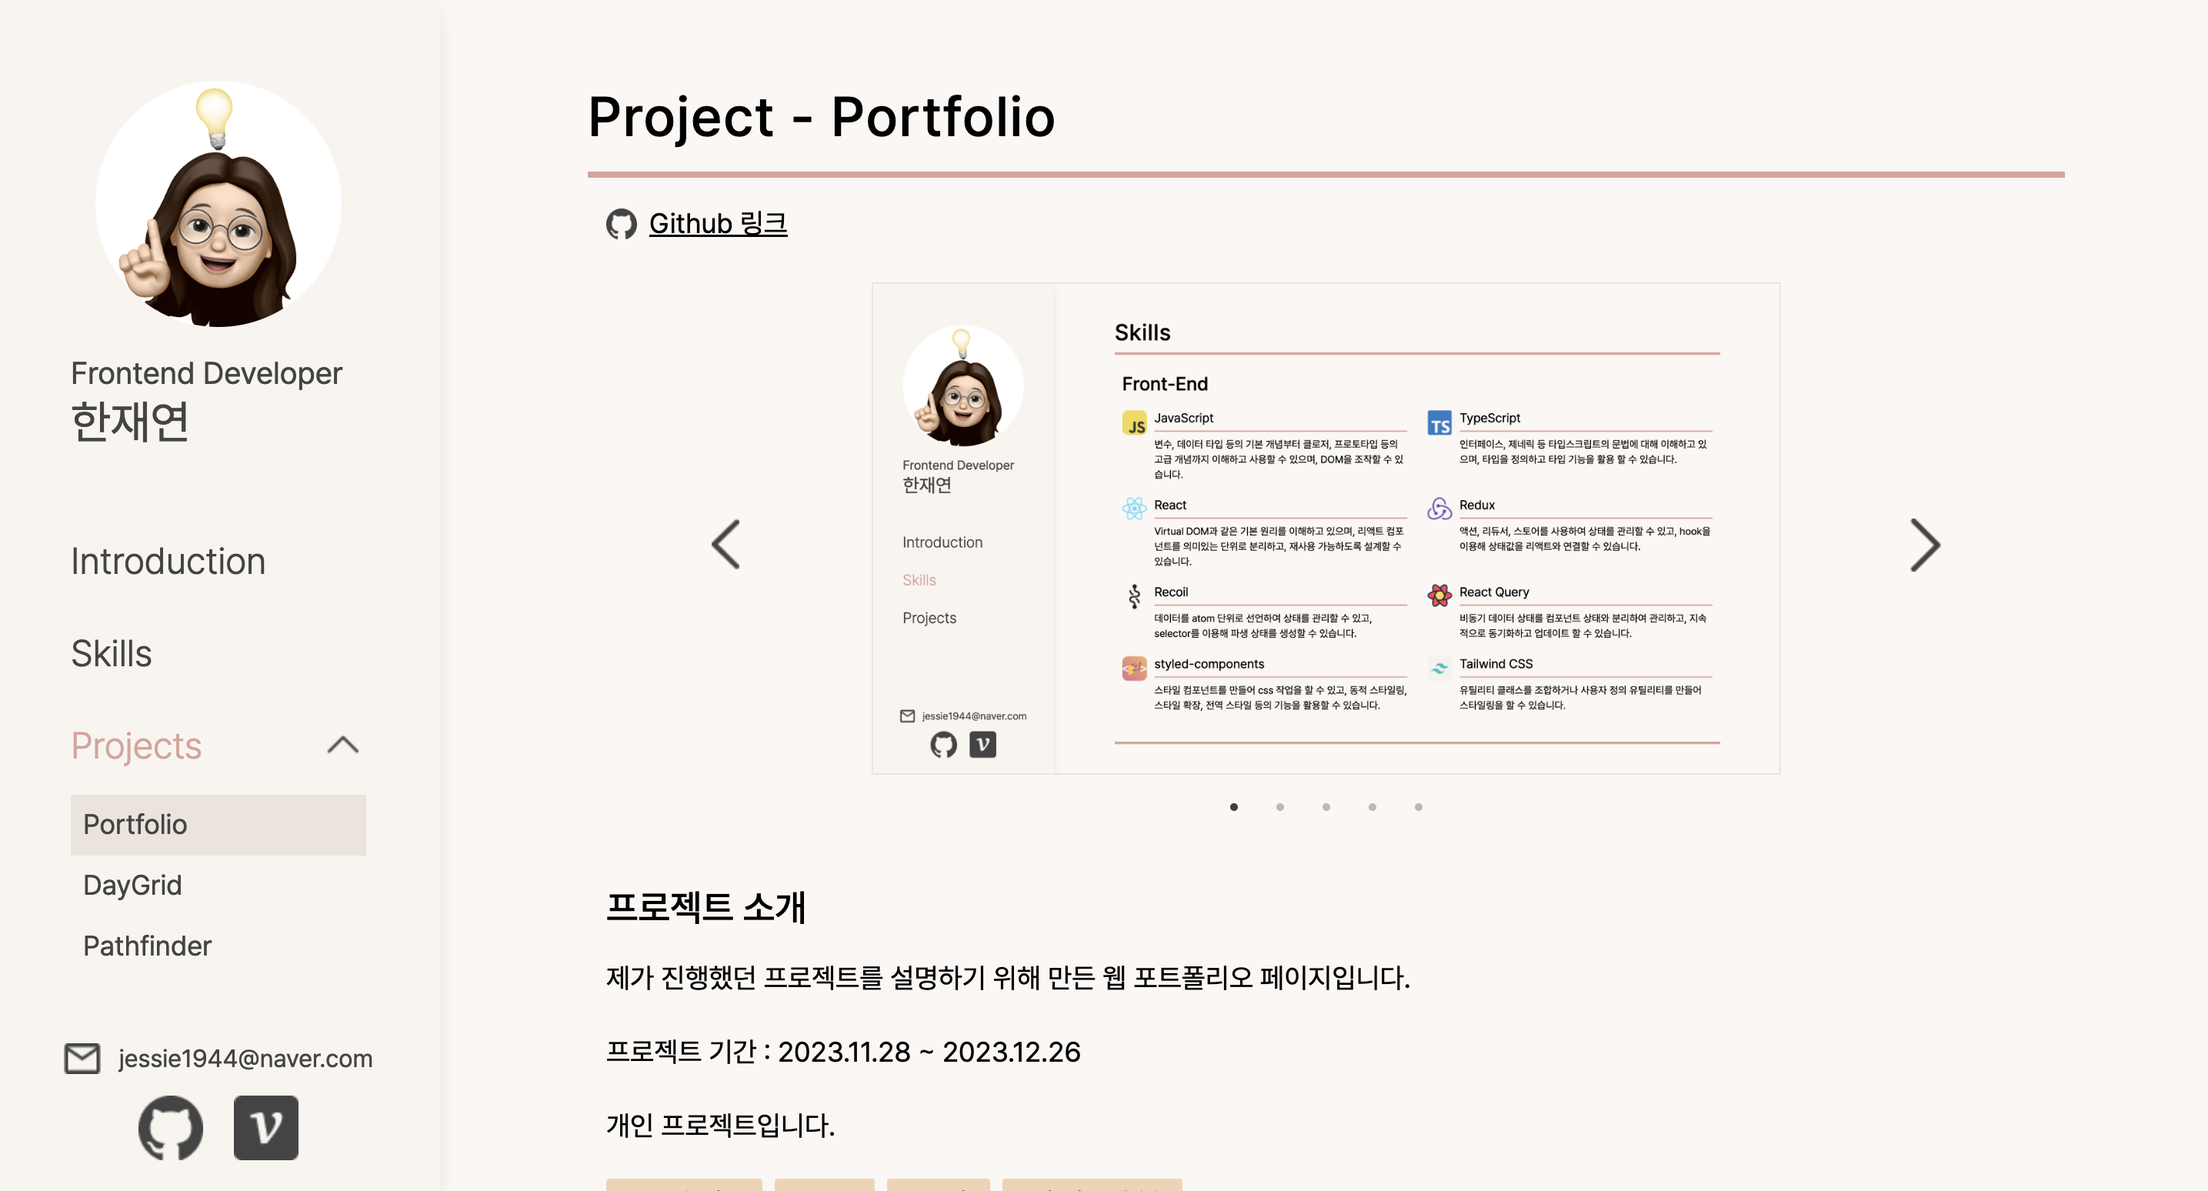
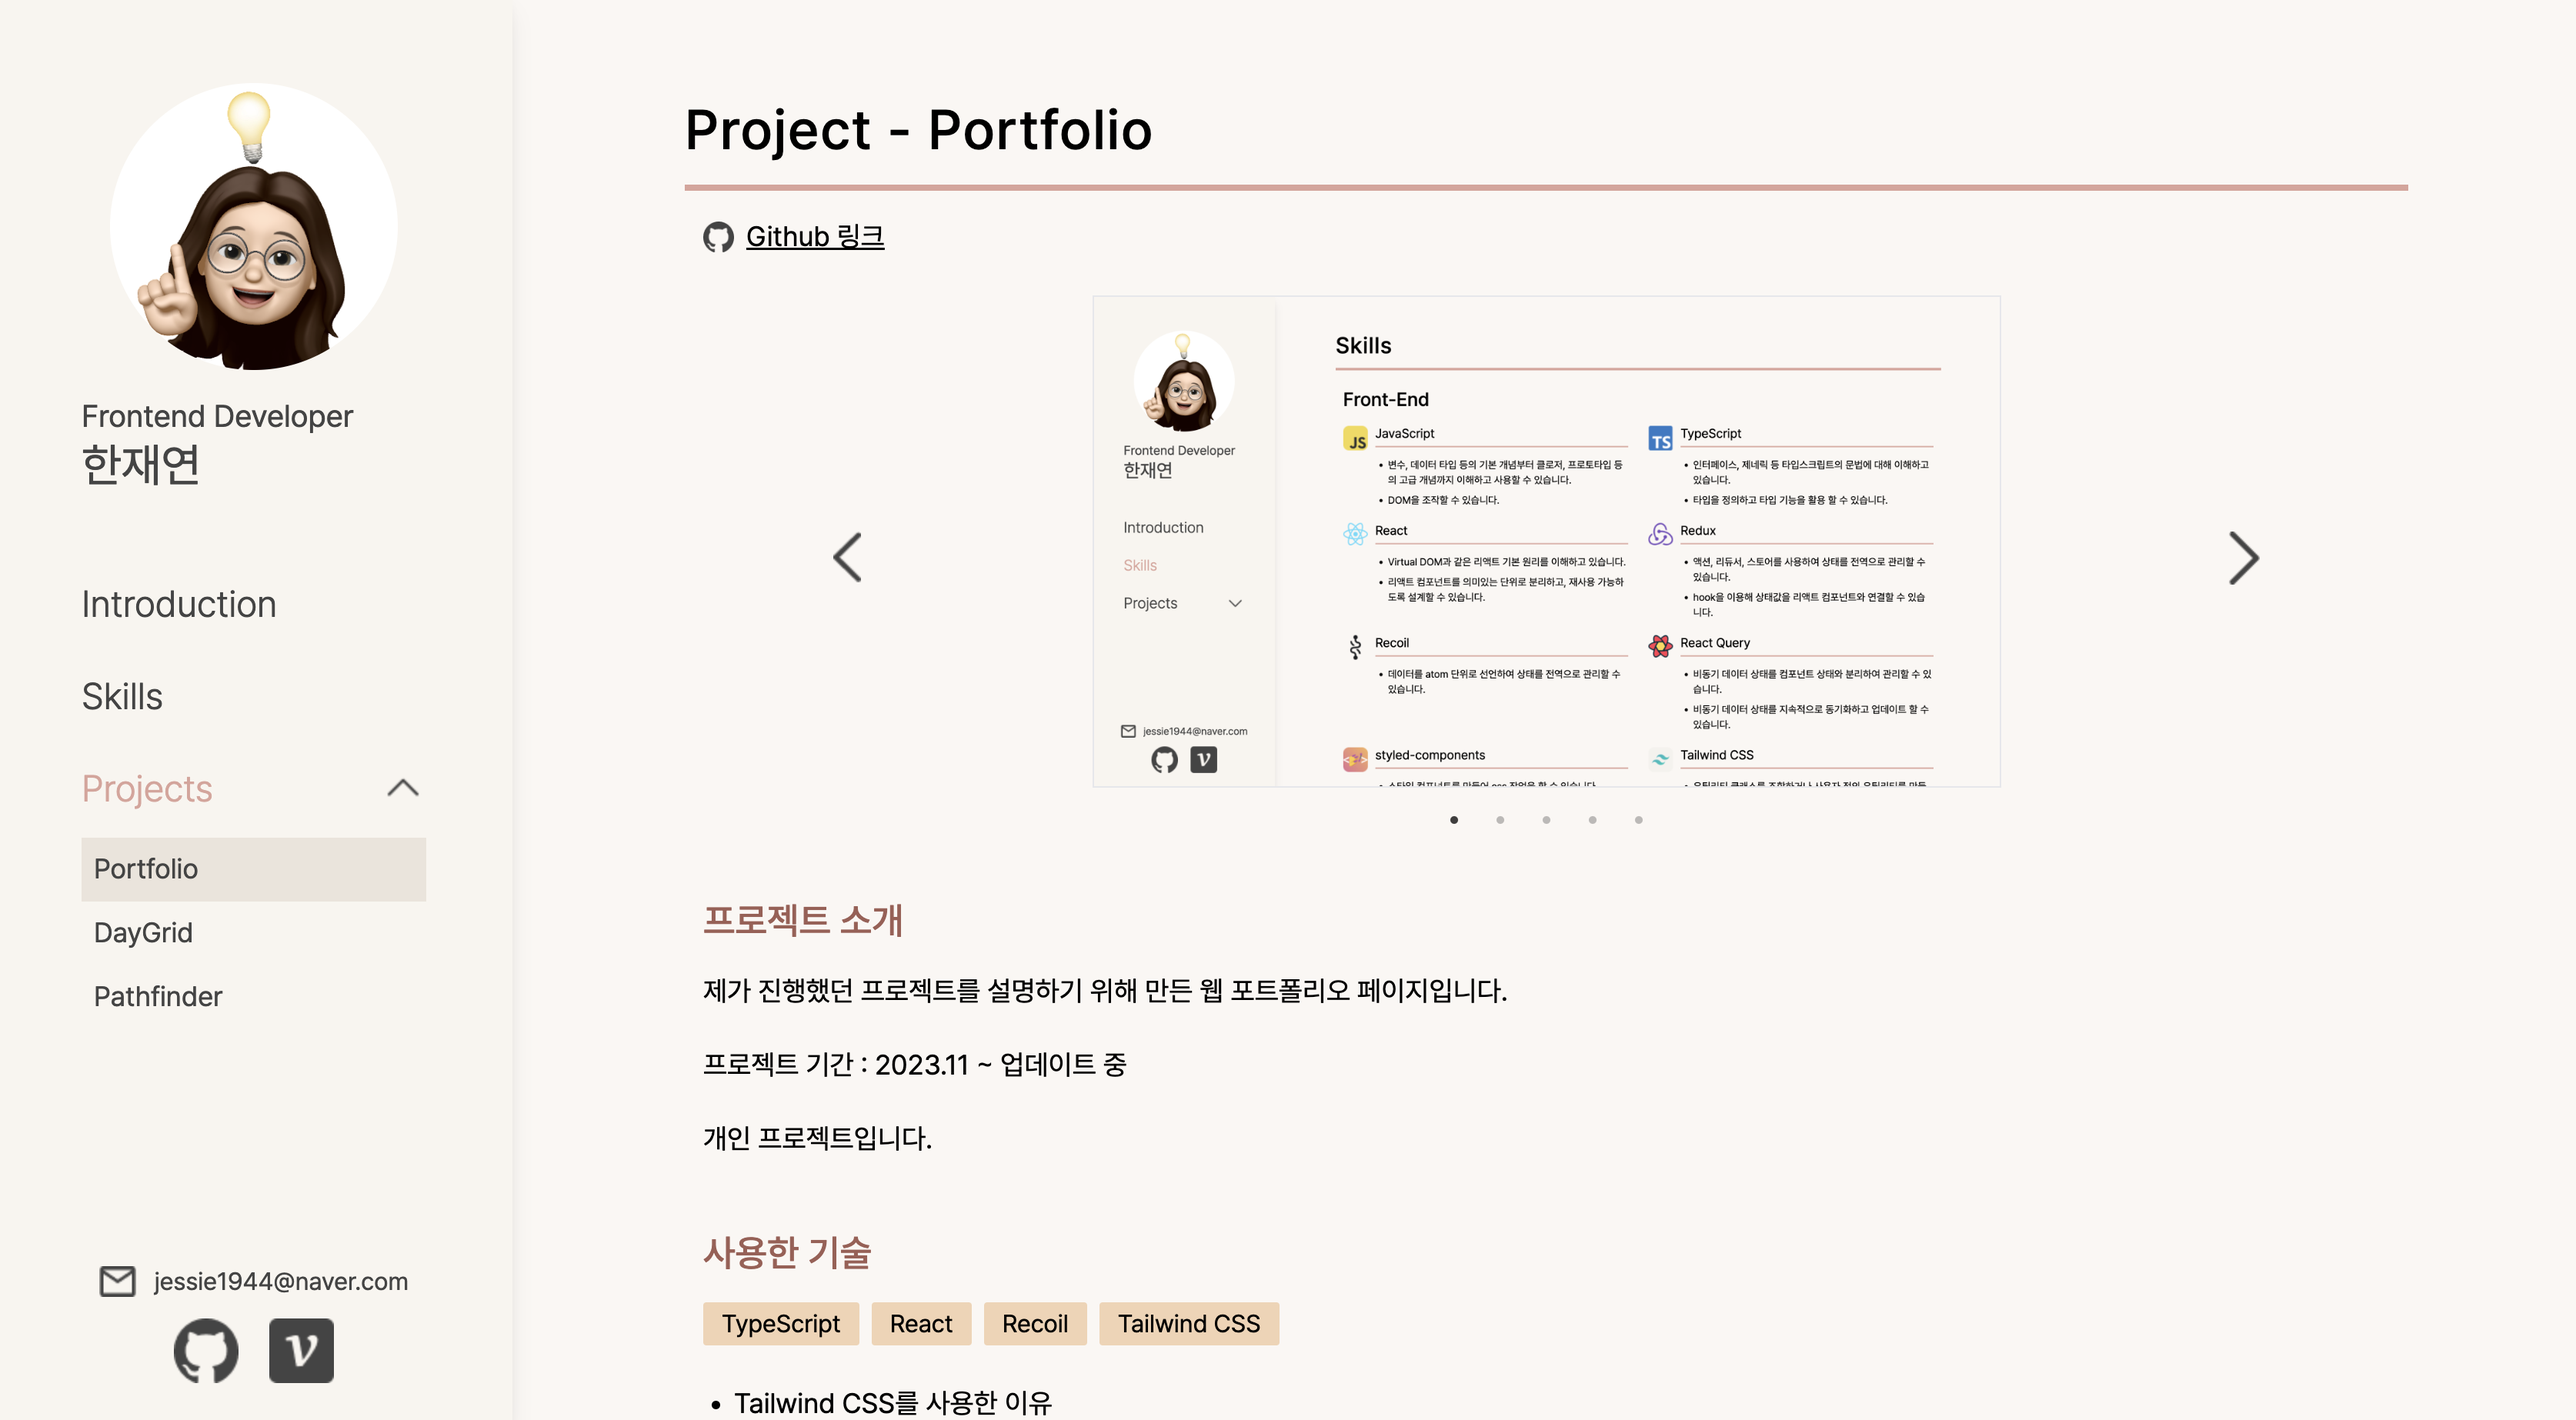
🎸 Chore: 프로젝트 페이지 내용 수정

diff --git a/src/components/Daygrid.tsx b/src/components/Daygrid.tsx
@@ -2,7 +2,7 @@ import React from "react";
 import github from "../assets/images/github.png";
 import link from "../assets/images/link.png";
 import Slider from "./Slider";
-import { daygridFe, daygridBe } from "../assets/images/skills/projectSkills";
+import { daygridFe, daygridBe } from "../assets/projects/projectSkills";
 
 function Daygrid(): JSX.Element {
   return (
@@ -48,13 +48,43 @@ function Daygrid(): JSX.Element {
             </div>
           ))}
         </div>
-        <div className="w-42 flex items-center gap-2 mb-8">
+        <div className="w-42 flex items-center gap-2 mb-6">
           {daygridBe.map((v, i) => (
             <div className="skill_be" key={i}>
               {v}
             </div>
           ))}
         </div>
+        <ul className="flex flex-col ml-3 mb-7 text-lg gap-3">
+          <li className="list_disc_style">
+            Redux Toolkit을 사용한 이유
+            <ul className="flex flex-col gap-2 mt-2">
+              <li className="list_circle_style pl-7">
+                중앙에서 전역 상태를 관리하고, 컴포넌트가 스토어에 직접 접근하여 데이터를 사용할 수
+                있음. 단일 스토어에서 상태를 관리하기 때문에 상태를 어디에서 관리해야 할지 고민하지
+                않아도 됨.
+              </li>
+              <li className="list_circle_style pl-7">
+                Redux Toolkit을 통해 보일러플레이트 코드양을 줄여 상태관리 작업을 단순화하고 실수를
+                방지
+              </li>
+            </ul>
+          </li>
+          <li className="list_disc_style">
+            React Query를 사용한 이유
+            <ul className="flex flex-col gap-2 mt-2">
+              <li className="list_circle_style pl-7">
+                캐싱 기능을 통해 비동기 데이터의 불필요한 반복 호출을 방지하거나, 데이터를
+                지속적으로 동기화하고 업데이트를 해주는 등 서버 데이터를 손쉽게 관리할 수 있음
+              </li>
+              <li className="list_circle_style pl-7">
+                Redux Toolkit에서도 RTK Query 통해 비동기 데이터를 불러오고 캐싱하는 기능을 제공.
+                이후 다른 프로젝트에서 Redux Toolkit을 사용한다면 편리성을 위해 RTK Query를
+                고려해보아도 되겠다고 생각하였음.
+              </li>
+            </ul>
+          </li>
+        </ul>
       </div>
       <div>
         <h2 className="title">내가 기여한 부분</h2>
@@ -67,12 +97,12 @@ function Daygrid(): JSX.Element {
                 Bebel-loader 와 ts-loader를 esbuild-loader로 마이그레이션하여 빌드 시간 단축
                 <ul className="flex flex-col gap-2 mt-2">
                   <li className="list_circle_style pl-7">
+                    npm run build 속도: 17.84초 -&gt; 8.56초, npm start 속도: 10.62초 -&gt; 6.62초
+                  </li>
+                  <li className="list_circle_style pl-7">
                     esbuild는 Go언어를 기반으로 작성되어 JavaScrip에 비해 빠른 빌드 속도를 보여줌.
                     하지만 타입 체킹을 진행하지 않기 때문에 fork-ts-checker-webpack-plugin을
                     사용하여 타입 체킹을 별도의 프로세스로 분리하여 진행.
-                  </li>
-                  <li className="list_circle_style pl-7">
-                    npm run build 속도: 17.84초 -&gt; 8.56초, npm start 속도: 10.62초 -&gt; 6.62초
                   </li>
                 </ul>
               </li>

diff --git a/src/components/Pathfinder.tsx b/src/components/Pathfinder.tsx
@@ -2,7 +2,7 @@ import React from "react";
 import github from "../assets/images/github.png";
 import link from "../assets/images/link.png";
 import Slider from "./Slider";
-import { pathfinderSkills } from "../assets/images/skills/projectSkills";
+import { pathfinderSkills } from "../assets/projects/projectSkills";
 
 function Pathfinder(): JSX.Element {
   return (
@@ -38,13 +38,42 @@ function Pathfinder(): JSX.Element {
         </ul>
       </div>
       <h2 className="title">사용한 기술</h2>
-      <div className="w-42 flex items-center gap-2 mb-8">
+      <div className="w-42 flex items-center gap-2 mb-6">
         {pathfinderSkills.map((v, i) => (
           <div className="skill_fe" key={i}>
             {v}
           </div>
         ))}
       </div>
+      <ul className="flex flex-col ml-3 mb-7 text-lg gap-3">
+        <li className="list_disc_style">
+          Recoil을 사용한 이유
+          <ul className="flex flex-col gap-2 mt-2">
+            <li className="list_circle_style pl-7">
+              Atom으로 상태를 선언하여 적은 코드로 전역 상태를 관리할 수 있음. 전역 상태를 사용하면
+              Props drilling을 방지하여 복잡도를 줄일 수 있고, 상태 추적이 용이해짐.
+            </li>
+            <li className="list_circle_style pl-7">
+              짧은 시간 안에 프로젝트를 완성해야 하고, 상태 관리 라이브러리를 사용해보지 않은 팀원이
+              있어 구조가 직관적이고 간단한 Recoil을 채택
+            </li>
+          </ul>
+        </li>
+        <li className="list_disc_style">
+          Styled-components를 사용한 이유
+          <ul className="flex flex-col gap-2 mt-2">
+            <li className="list_circle_style pl-7">
+              유일한 class명을 생성하여 붙여주기 때문에 class 네이밍을 고민하지 않아도 되고, 파일
+              단위로 스타일이 적용되어 다른 파일에 영향을 주지 않음. FE 팀원 모두가 팀 프로젝트를
+              처음 진행해보기 때문에 혼란을 줄이기 위해 채택.
+            </li>
+            <li className="list_circle_style pl-7">
+              if문, 삼항 연산자, 변수 등 JS 코드를 사용할 수 있어 동적 스타일링이 가능. 프로젝트에서
+              디자인을 중점적으로 생각했기 때문에 동적 스타일링이 필요할 것이라 생각하였음.
+            </li>
+          </ul>
+        </li>
+      </ul>
       <h2 className="title">내가 기여한 부분</h2>
       <ul className="flex flex-col ml-3 mb-7 text-lg gap-3">
         <li className="list_disc_style">

diff --git a/src/components/Portfolio.tsx b/src/components/Portfolio.tsx
@@ -1,7 +1,7 @@
 import React from "react";
 import github from "../assets/images/github.png";
 import Slider from "./Slider";
-import { portfolioSkills } from "../assets/images/skills/projectSkills";
+import { portfolioSkills } from "../assets/projects/projectSkills";
 
 function Portfolio(): JSX.Element {
   return (
@@ -14,16 +14,37 @@ function Portfolio(): JSX.Element {
       <h2 className="title">프로젝트 소개</h2>
       <div className="flex flex-col gap-3 text-lg mb-5 md:gap-5">
         <div>제가 진행했던 프로젝트를 설명하기 위해 만든 웹 포트폴리오 페이지입니다.</div>
-        <div className="list-disc list-inside">프로젝트 기간 : 2023.11.28 ~ 2023.12.26</div>
+        <div className="list-disc list-inside">프로젝트 기간 : 2023.11 ~ 업데이트 중</div>
         <div>개인 프로젝트입니다.</div>
       </div>
-      <div className="w-42 flex items-center gap-2 mb-8">
+      <h2 className="title">사용한 기술</h2>
+      <div className="w-42 flex items-center gap-2 mb-6">
         {portfolioSkills.map((v, i) => (
           <div className="skill_fe" key={i}>
             {v}
           </div>
         ))}
       </div>
+      <ul className="flex flex-col ml-3 mb-7 text-lg gap-3">
+        <li className="list_disc_style">
+          Tailwind CSS를 사용한 이유
+          <ul className="flex flex-col gap-2 mt-2">
+            <li className="list_circle_style pl-7">
+              Utility-First CSS로, 정적인 CSS 클래스를 사용하기 때문에 런타임이 아닌 빌드타임에
+              스타일을 생성. 런타임에 스타일을 정의하는 방식보다 페이지 렌더링 시간이 짧음
+            </li>
+            <li className="list_circle_style pl-7">
+              기존 CSS를 작성하는 방식과 달라 러닝 커브가 있지만, 솔로 프로젝트라 개발 속도를 맞춰야
+              하는 팀원이 없고 화려한 디자인을 구현할 필요가 없어 Tailwind를 사용해보기에 적절하다고
+              판단
+            </li>
+            <li className="list_circle_style pl-7">
+              반응형 웹을 만드는 것이 프로젝트의 메인 목표 중 하나였음. 따라서 클래스 이름을 통해
+              반응형 디자인을 쉽게 구현할 수 있는 Tailwind가 적합하다고 생각하였음.
+            </li>
+          </ul>
+        </li>
+      </ul>
       <div>
         <h2 className="title">구현 기능</h2>
         <ul className="flex flex-col ml-3 mb-7 text-lg gap-3">
